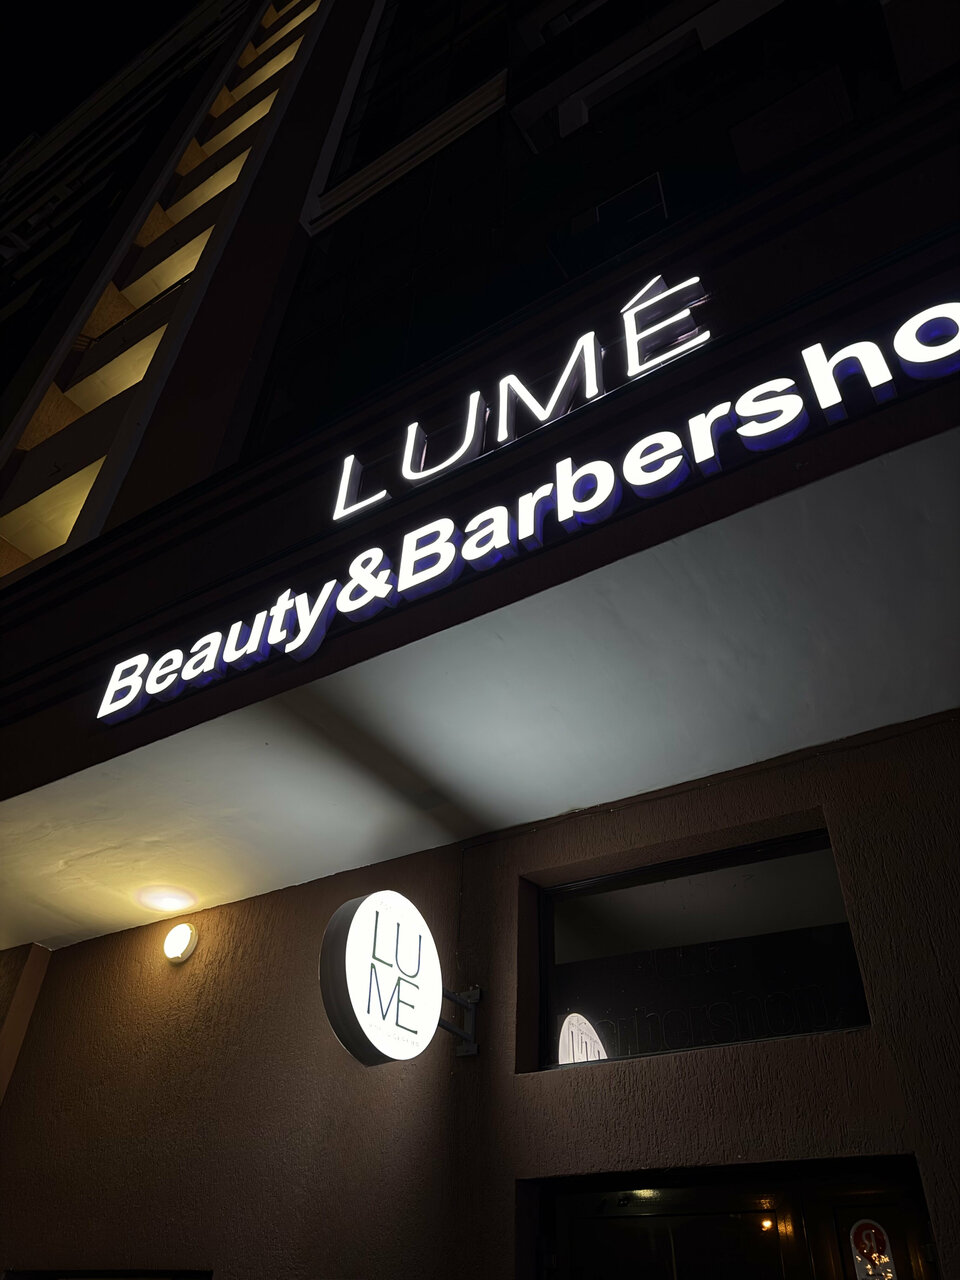
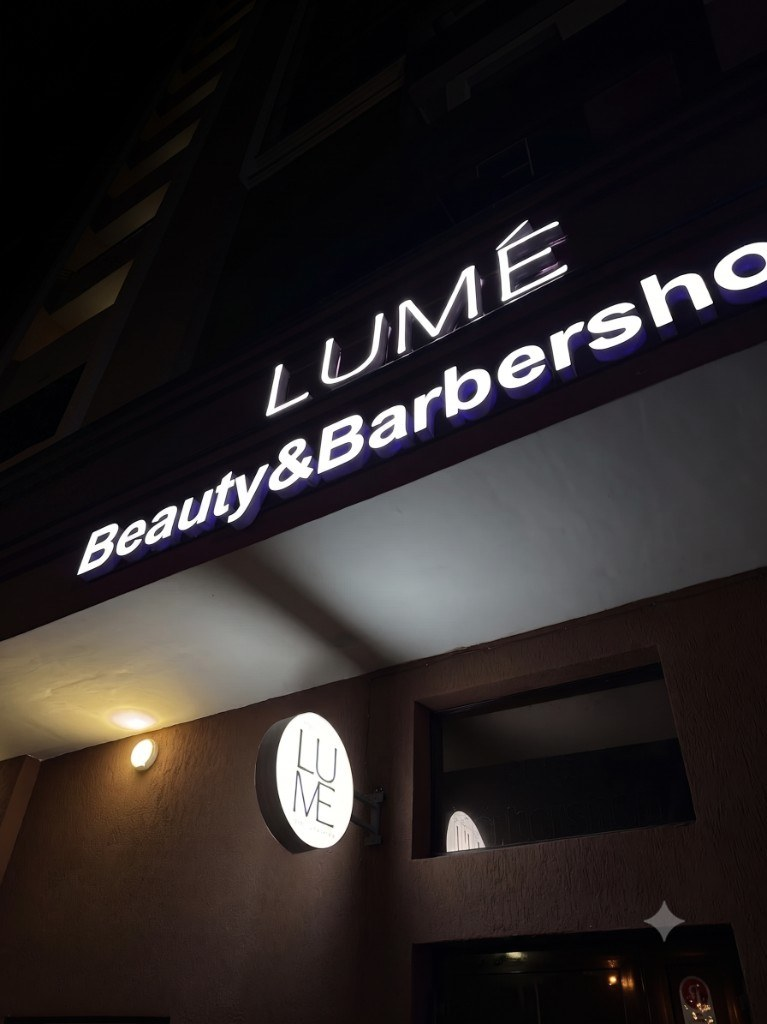
Replace hero image with LUMÉ night storefront photo

diff --git a/src/App.tsx b/src/App.tsx
@@ -331,9 +331,9 @@ function Hero() {
     >
       <img
         src={IMG.hero}
-        alt="Вывеска Lumé Beauty&Barbershop"
+        alt="Вывеска LUMÉ Beauty&Barbershop"
         className="hero-photo absolute inset-0 h-full w-full object-cover"
-        style={{ objectPosition: "center 35%" }}
+        style={{ objectPosition: "center 42%" }}
         fetchPriority="high"
       />
 